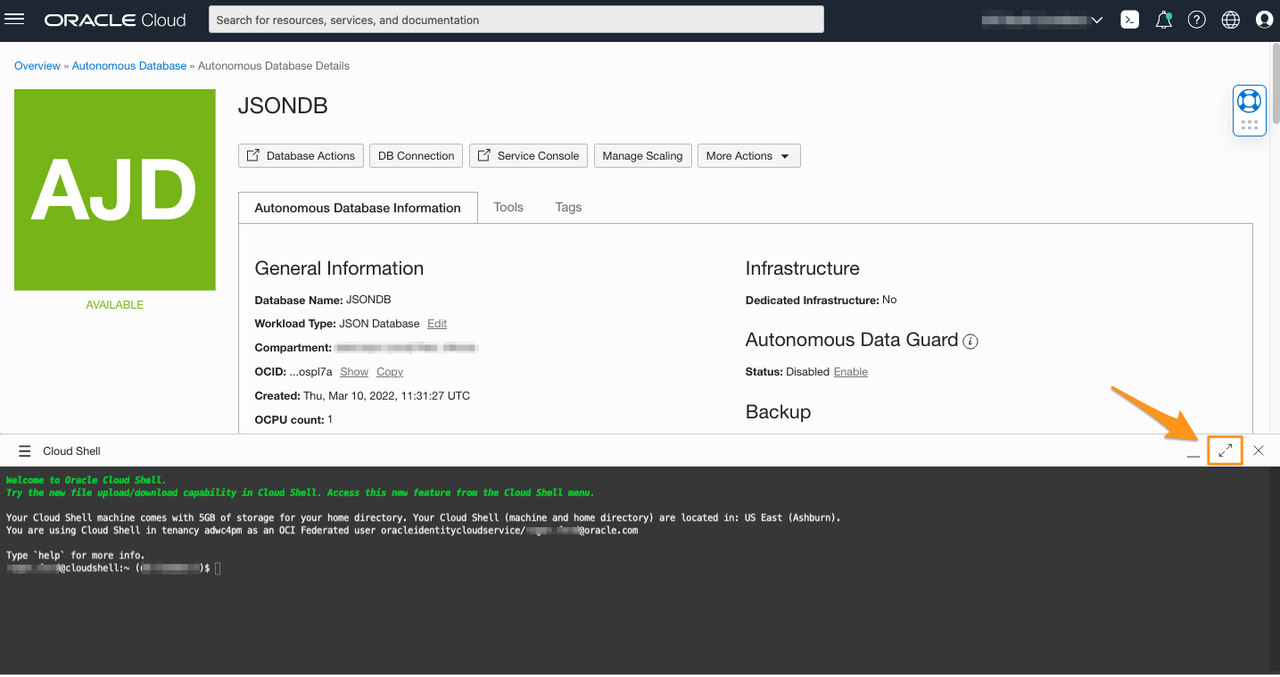
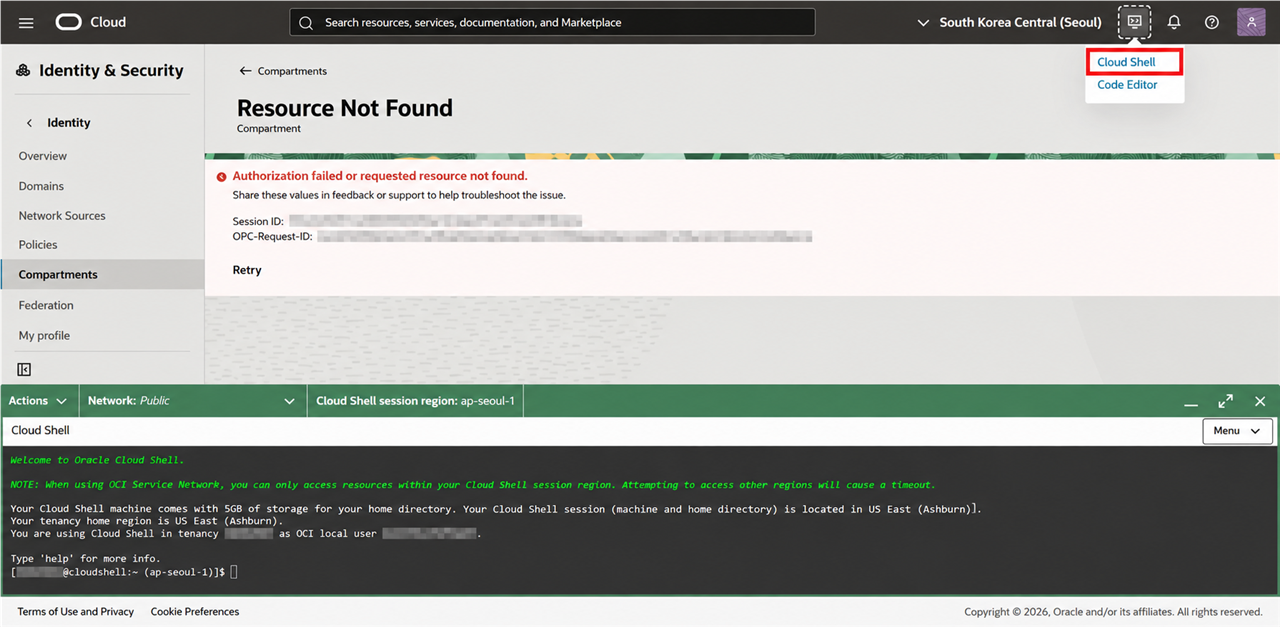
Add instructions to access cloudshell from OCI sandbox environment  (#1248)
* Add streaming movie data seeder

* Add MongoDB API search workshop

* Remove traceability and seed script

* Remove root traceability record

* Restore root traceability record

* Place traceability in workshop folder

* Remove root traceability record

* Remove generated validation report

* Remove workshop metadata files

* Resize workshop images

* Add vector search with duality views workshop

* Include workshop editor settings

* Ignore workshop authoring metadata

* Remove distance from search results

* Clarify duality view vector index usage

* Use relational vector index in duality searches

* Query duality view for vector searches

* Update MongoDB setup and remove DV draft from main

* Fix LiveLabs Markdown indentation in Get Started

---------

diff --git a/search-using-mongodb-api/get-started/get-started.md b/search-using-mongodb-api/get-started/get-started.md
@@ -2,15 +2,16 @@
 
 ## Introduction
 
-In this lab, sign in to the OCI Console with your LiveLabs Sandbox credentials. Locate the provisioned Autonomous AI Database and open its SQL worksheet. Install MongoDB Shell in Cloud Shell. Then retrieve and verify the MongoDB API connection.
+In this lab, sign in to the OCI Console with your LiveLabs Sandbox credentials. Open your assigned compartment and launch Cloud Shell from its details page first. This gives Cloud Shell time to provision before you need it. Then locate the provisioned Autonomous AI Database, open its SQL worksheet, install MongoDB Shell, and verify the MongoDB API connection.
 
-Estimated Time: 15 minutes
+Estimated Time: 20 minutes
 
 ### Objectives
 
 In this lab, you will:
 
 - Access the OCI Console with the credentials supplied by LiveLabs
+- Open the assigned sandbox compartment and initialize Cloud Shell
 - Locate the provisioned Autonomous AI Database and open its SQL worksheet
 - Retrieve the MongoDB API connection string
 - Install MongoDB Shell in OCI Cloud Shell
@@ -26,15 +27,14 @@ In this lab, you will:
 
 1. Return to your LiveLabs reservation and select **View Login Info**.
 
-2. Record the values supplied for your environment:
+2. Review the **Tenancy Information** and **Environment Details** sections.
 
-    - Cloud account or tenancy name
-    - OCI username
-    - OCI password
-    - OCI region
-    - Autonomous AI Database `ADMIN` password, if listed separately
+    ![LiveLabs View Login Info with tenancy and database field labels visible and example values blurred](./images/view-login-info.png)
 
-    The OCI password signs you in to the cloud console. The database `ADMIN` password authenticates SQL and MongoDB API connections. Treat them as separate credentials even if the sandbox assigns the same value to both.
+    - **Tenancy Name** and **Region** identify the OCI account and region. Use them with the OCI username and password supplied for your reservation to sign in.
+    - **Compartment** and **Compartment OCID** identify the sandbox compartment you select in Task 2.
+    - **Target ATP Name** identifies the Autonomous AI Database provisioned for you.
+    - **Target ATP Admin Password** is the database `ADMIN` password for SQL and MongoDB API connections. It is different from your OCI password.
 
 3. Select **Launch OCI**. If that option is not available, open [cloud.oracle.com](https://cloud.oracle.com) in a new browser tab.
 
@@ -44,7 +44,29 @@ In this lab, you will:
 
 6. Confirm that the region displayed in the OCI Console matches the region assigned to your sandbox.
 
-## Task 2: Locate the database and open SQL
+## Task 2: Open your sandbox compartment and start Cloud Shell
+
+1. Open the OCI navigation menu, select **Governance & Administration**, and then select **Tenancy Explorer**.
+
+2. In the compartment picker, select the compartment assigned to your LiveLabs Sandbox.
+
+3. Select the compartment name to open its details page. Confirm that the OCI Console region matches the region assigned to your sandbox.
+
+    The page may display a `Resource Not Found` or authorization error. You can ignore this message; for this lab, you only need to open the compartment details before launching Cloud Shell in the next step.
+
+4. In the OCI Console header, select the **Cloud Shell** icon, then select **Cloud Shell**. Wait until the terminal prompt appears before continuing.
+
+    ![OCI Console with the Cloud Shell terminal open at the bottom of the page](./images/open-cloud-shell.png)
+
+    The compartment page address follows this pattern after Cloud Shell opens:
+
+    ```text
+    https://cloud.oracle.com/identity/compartments/<compartment-ocid>?region=<region-identifier>&cloudshell=true
+    ```
+
+5. Keep the Cloud Shell panel open while you continue to Task 3. Starting it now gives the environment time to provision before you use it later in this lab.
+
+## Task 3: Locate the database and open SQL
 
 1. Open the OCI navigation menu, select **Oracle AI Database**, and then select **Autonomous AI Database**.
 
@@ -60,7 +82,7 @@ In this lab, you will:
 
 5. Keep the SQL worksheet open in a browser tab. You use it in Lab 1.
 
-## Task 3: Prepare the embedding model in Object Storage
+## Task 4: Prepare the embedding model in Object Storage
 
 1. Download the multilingual E5-base archive provided for this workshop to your local computer:
 
@@ -80,7 +102,7 @@ In this lab, you will:
 
 5. Keep the PAR URL available. In Lab 1, replace `<multilingual-e5-base-onnx-model-url>` with this URL so Autonomous AI Database can load the model.
 
-## Task 4: Retrieve the MongoDB API connection string
+## Task 5: Retrieve the MongoDB API connection string
 
 1. Return to the Autonomous AI Database details page.
 
@@ -96,19 +118,17 @@ In this lab, you will:
     mongodb://[user:password@]<adb-host>:27017/[user]?authMechanism=PLAIN&authSource=$external&ssl=true&retryWrites=false&loadBalanced=true
     ```
 
-5. Keep this temporary copy available for Task 6. Do not share or publish the completed connection string after you add the password.
+5. Keep this temporary copy available for Task 7. Do not share or publish the completed connection string after you add the password.
 
-## Task 5: Install MongoDB Shell in Cloud Shell
+## Task 6: Install MongoDB Shell in Cloud Shell
 
 **NOTE**: MongoDB Shell is a tool provided by MongoDB Inc. Oracle is not associated with MongoDB Inc, and has no control over the software. These instructions are provided simply to help you learn about MongoDB Shell. Links may change without notice.
 
 Check the official MongoDB download website for latest versions and instructions, e.g.:
 
-[https://www.mongodb.com/try/download/shell](https://www.mongodb.com/try/download/shell)
+<https://www.mongodb.com/try/download/shell>
 
-1. In the OCI Console header, select the **Cloud Shell** icon and wait for the terminal to open.
-
-    ![OCI Console with Cloud Shell open at the bottom of the page](./images/open-cloud-shell.png)
+1. Use the Cloud Shell session you opened in Task 2. If you closed it, return to the assigned compartment details page in Tenancy Explorer and launch Cloud Shell there.
 
 2. Create a directory for MongoDB Shell and change to that directory.
 
@@ -117,33 +137,49 @@ Check the official MongoDB download website for latest versions and instructions
     cd $HOME/mongosh
     ```
 
-3. Download the MongoDB Shell 2.9.2 archive for Linux x64.
+3. Check the Cloud Shell processor architecture.
 
     ```bash
-    curl https://downloads.mongodb.com/compass/mongosh-2.9.2-linux-x64.tgz -o mongosh.tgz
+    uname -m
     ```
 
-4. Extract the archive.
+    Use `x86_64` for an Intel or AMD Cloud Shell. Use `aarch64` for an ARM Cloud Shell.
+
+4. Download the MongoDB Shell 2.9.2 archive that matches your Cloud Shell architecture.
+
+    For `x86_64`:
+
+    ```bash
+    curl -L https://downloads.mongodb.com/compass/mongosh-2.9.2-linux-x64.tgz -o mongosh.tgz
+    ```
+
+    For `aarch64`:
+
+    ```bash
+    curl -L https://downloads.mongodb.com/compass/mongosh-2.9.2-linux-arm64.tgz -o mongosh.tgz
+    ```
+
+5. Extract the archive.
 
     ```bash
     tar -xzf mongosh.tgz --strip-components=1
     ```
 
-5. Add MongoDB Shell to `PATH` for the current Cloud Shell session.
+6. Add MongoDB Shell to `PATH` for the current Cloud Shell session.
 
     ```bash
     export PATH="$HOME/mongosh/bin:$PATH"
     ```
 
-6. Verify the installation.
+7. Verify the installation.
 
     ```bash
     mongosh --version
     ```
 
-7. Confirm that the command returns version `2.9.2`. If you close Cloud Shell during this workshop, run the `export PATH` command again after reopening it.
+8. Confirm that the command returns version `2.9.2`. An `Exec format error` means you downloaded the wrong architecture. Download and extract the other archive, then retry. If you close Cloud Shell, run the `export PATH` command again after reopening it.
 
-## Task 6: Complete the connection string and connect
+## Task 7: Complete the connection string and connect
 
 1. In your temporary text editor, replace `[user:password@]` with `ADMIN:<encoded-password>@`.
 
@@ -176,7 +212,7 @@ Check the official MongoDB download website for latest versions and instructions
 
 6. Wait for the MongoDB Shell prompt. Do not save, share, or capture a screenshot of the completed connection string.
 
-## Task 7: Verify the connection
+## Task 8: Verify the connection
 
 1. At the MongoDB Shell prompt, send a ping command.
 
@@ -213,4 +249,4 @@ You are ready to proceed to Lab 1, where you load and verify the movie search en
 ## Acknowledgements
 
 - **Author** - Gael Palomino
-- **Last Updated By/Date** - Gael Palomino, August 2026
+- **Last Updated By/Date** - Gael Palomino, September 2026
